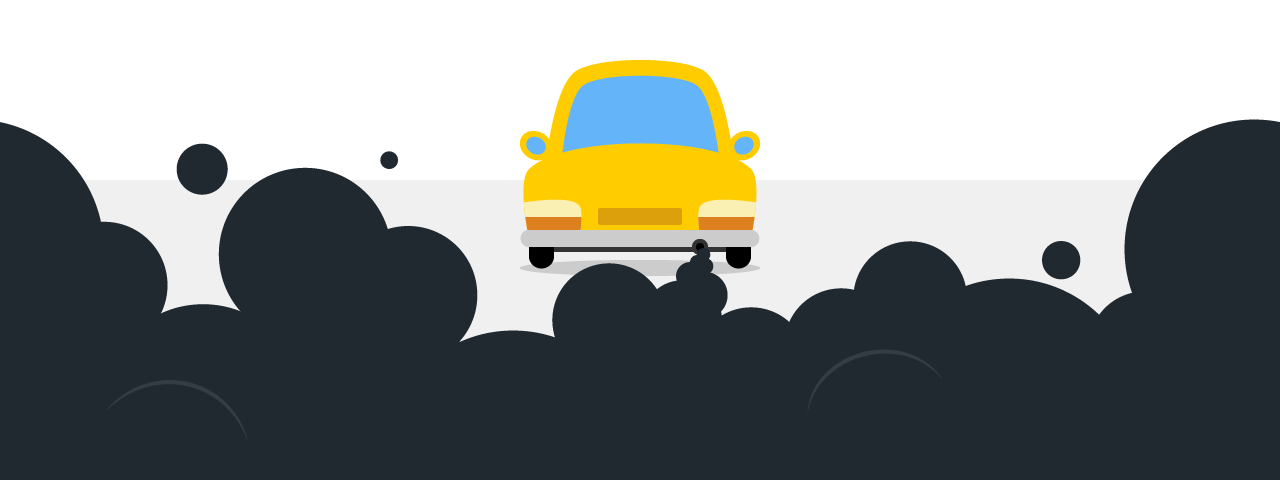
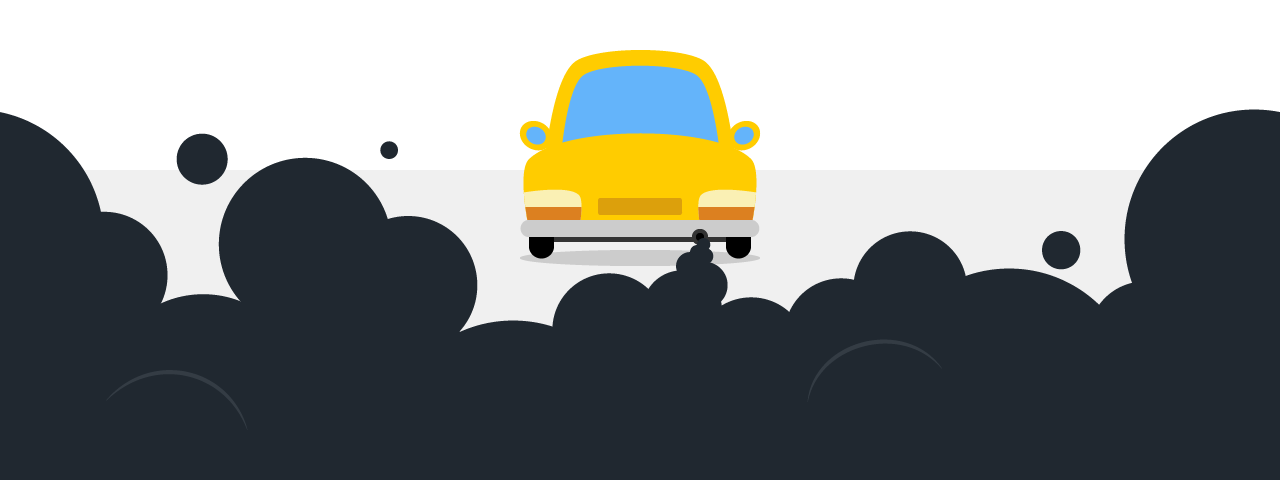
Updated footer styles

diff --git a/less/scaffolding.less b/less/scaffolding.less
@@ -55,7 +55,7 @@ body {
   color: #828c96;
   height: 480px;
   margin-top: -100px;
-  padding-top: 320px;
+  padding-top: 310px;
   text-align: center;
 
   a {
